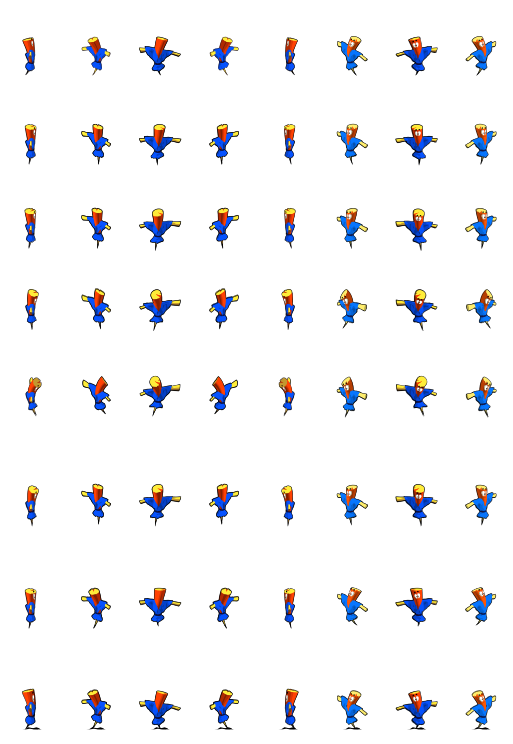
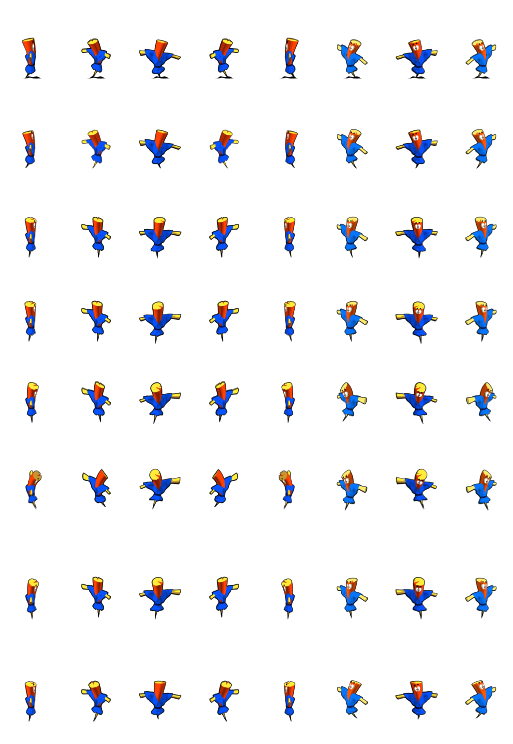
fixing door open bug and worker turn around bug

diff --git a/nezal-ar/public/base-defender/js/game/isometric/moving_object.js b/nezal-ar/public/base-defender/js/game/isometric/moving_object.js
@@ -4,17 +4,24 @@ var MovingObject = Class.create({
 	 rotating : false,
 	 targetAngle :0,
 	 angle : 0,
-	 speed : 0.5,
+	 speed : 0.7,
+	 distanceToNextTile : 0,
+	 noOfStates : 8,
+	 state : 0,
+	 counter : 0,
 	 initialize : function(game,x,y){
 	 	this.game = game
 		this.coords = {}
 	 	this.coords.x = x
 		this.coords.y = y
+		this.shadow = {xdim: 40, ydim: 40, zdim: 0, imgWidth: 50, imgHeight: 31, angle:0};
+		this.shadow.coords = this.coords
 		this.movingPath = []
 		this.game.scene.push(this);
 	 },
 	 
 	 tick : function(){
+	 		this.counter++
 	 		if(this.movingPath.length>0){
 			if(this.targetAngle!=this.angle){
 				this.changeAngle();
@@ -23,9 +30,12 @@ var MovingObject = Class.create({
 			var values = Map.value(this.movingPath[this.movingPath.length-1].x,this.movingPath[this.movingPath.length-1].y)
 			if(!this.moving){
 				this.moving = true
+				this.distanceToNextTile = Util.distance(this.coords.x,this.coords.y,values[0],values[1])  
 				this.targetAngle = Map.getDirection(this.coords.x,this.coords.y,values[0],values[1])
 			}
-			var movements = Util.getNextMove(this.coords.x,this.coords.y,values[0],values[1],this.speed)
+			//this.state = this.calculateCurrentState(values)
+			var movements = Util.getNextMove(this.coords.x,this.coords.y,values[0],values[1],this.distanceToNextTile/24)
+			if(this.counter%3==0)this.state = (this.state+1)%8
 			this.coords.x+=movements[0]
 			this.coords.y+=movements[1]
 			var mapValues = Map.tileValue(this.coords.x,this.coords.y)
@@ -37,7 +47,10 @@ var MovingObject = Class.create({
 					//this.angle = Map.getDirection(this.x,this.y,values[0],values[1])
 				}
 			}
-			if(this.movingPath.length == 0) this.moving = false
+			if(this.movingPath.length == 0){
+				this.moving = false
+				this.state = 0
+			} 
 		}
 		else {
 			var rand = Math.random()
@@ -62,5 +75,9 @@ var MovingObject = Class.create({
 				this.angle = (this.angle+7) % 8
 			}
 		}			
+	},
+	calculateCurrentState : function(values){
+		var numirator = (this.distanceToNextTile - Util.distance(this.coords.x,this.coords.y,values[0],values[1]))*this.noOfStates
+		return Math.round(numirator/this.distanceToNextTile)
 	}
 })

diff --git a/nezal-ar/public/base-defender/js/game/displays/display.js b/nezal-ar/public/base-defender/js/game/displays/display.js
@@ -47,16 +47,16 @@ var WorkerDisplay = Class.create(Display,{
 		this.shadowImg = Loader.images.worker['worker_shadow.png'];
 		Object.extend(this.owner,this);
 		this.sprites.worker = new DomImgSprite(owner, {img : this.img});
-		this.sprites.shadow = new DomImgSprite(owner.shadow, {img : this.shadowImg}, {shiftY: 48, shiftX: 10});
+		this.sprites.shadow = new DomImgSprite(owner.shadow, {img : this.shadowImg}, {shiftY: 40, shiftX: 0});
   },
 	
 	render : function(){
+		this.sprites.worker.currentAnimationFrame = Math.abs(this.owner.state)
 		this.sprites.worker.render();
-		//this.sprites.shadow.render();
-		var divider = 20;
-		if (this.owner.angle == Map.S) divider = 45;
-		var scale = Math.abs(this.sprites.shadow.owner.coords.y-this.sprites.worker.owner.coords.y)/divider + 1;
-		this.sprites.shadow.setImgWidth(scale*this.shadowImg.width)
+		this.sprites.shadow.render();
+		var shadowWidth = (Math.abs(4-this.owner.state)+1)*5
+		this.sprites.shadow.shiftX = 15 + (25 - shadowWidth)/2
+		this.sprites.shadow.setImgWidth(shadowWidth)
 	}
 });
 
@@ -262,7 +262,7 @@ var TownhallDisplay = Class.create(BuildingDisplay, {
 			if (!this.sprites.building.animated && !this.owner.producing) {
         this.sprites.building.currentAnimationFrame = 0
       }
-      else {
+      else if(!this.owner.producing){
 		  	this.sprites.building.currentAnimationFrame = (this.sprites.building.currentAnimationFrame + 1) % this.sprites.building.noOfAnimationFrames;
       }
 		}

diff --git a/nezal-ar/public/base-defender/js/game/building_mode.js b/nezal-ar/public/base-defender/js/game/building_mode.js
@@ -23,6 +23,7 @@ var BuildingMode = Class.create({
   },
 	
 	move: function(){
+		if(!this.selectedBuilding)return
 		this.moveBuilding = true;
 		Map.objects.remove(this.selectedBuilding);
 		this.selectedBuilding.oldCoords = {};
@@ -51,9 +52,14 @@ var BuildingMode = Class.create({
   },
   
 	cancelBuildingMode : function(){
+		if (this.moveBuilding) {
+			this._ModeOnAction(this.selectedBuilding.oldCoords.x,this.selectedBuilding.oldCoords.y)
+		}
+		else {
+			this.selectedBuilding.destroy();
+			this.selectedBuilding = null;
+		}	
 		this.off();
-		this.selectedBuilding.destroy();
-		this.selectedBuilding = null;	
 	},
 	
   _AttachCanvasClickListener : function(){

diff --git a/nezal-ar/public/base-defender/js/game/isometric/dom_img_sprite.js b/nezal-ar/public/base-defender/js/game/isometric/dom_img_sprite.js
@@ -13,8 +13,6 @@ var DomImgSprite = Class.create(DomSprite, {
 				 }
 			})
 		}
-    if( imgAssets.shadeImg )
-		  this.shadeImg = imgAssets.shadeImg.clone();
 		this.div.appendChild(this.img)
 		this.currentAnimationFrame = 0
 		this.currentDirectionFrame = 0
@@ -35,10 +33,12 @@ var DomImgSprite = Class.create(DomSprite, {
 	},
   
   setImgWidth : function(width){
+		this.imgWidth = width
     this.img.setStyle({width:(width + "px")});
   },
   
 	setImgHeight : function(height){
+			this.imgHeight = height
       this.img.setStyle({height:(height + "px")});
   },
 	

diff --git a/nezal-ar/public/base-defender/js/game/isometric/jumping_object.js b/nezal-ar/public/base-defender/js/game/isometric/jumping_object.js
@@ -42,7 +42,7 @@ var JumpingObject = Class.create({
 				this.doingJump = true;
 				this.speed = this.maxSpeed;
 				var jmpTile = this.getJumpTile();
-				if(jmpTile!=null)this.movingPath.push(this.getJumpTile());
+				if(jmpTile!=null)this.movingPath.push(jmpTile);
 			}
 			
 			var values = Map.value(this.movingPath[this.movingPath.length-1].x,this.movingPath[this.movingPath.length-1].y)

diff --git a/nezal-ar/public/base-defender/js/game/isometric/map.js b/nezal-ar/public/base-defender/js/game/isometric/map.js
@@ -94,7 +94,7 @@ var Map={
 				if(i2==rowOddDirections[k][1]&&j2==rowOddDirections[k][2]) return rowOddDirections[k][0]
 			}
 		}
-		return null
+		return 0
 	},
 	getNeighbor : function(i,j,direction){
 		var ret = null

diff --git a/nezal-ar/public/base-defender/js/game/worker.js b/nezal-ar/public/base-defender/js/game/worker.js
@@ -1,3 +1,3 @@
-var Worker = Class.create(JumpingObject,{
+var Worker = Class.create(MovingObject,{
 	
 });
